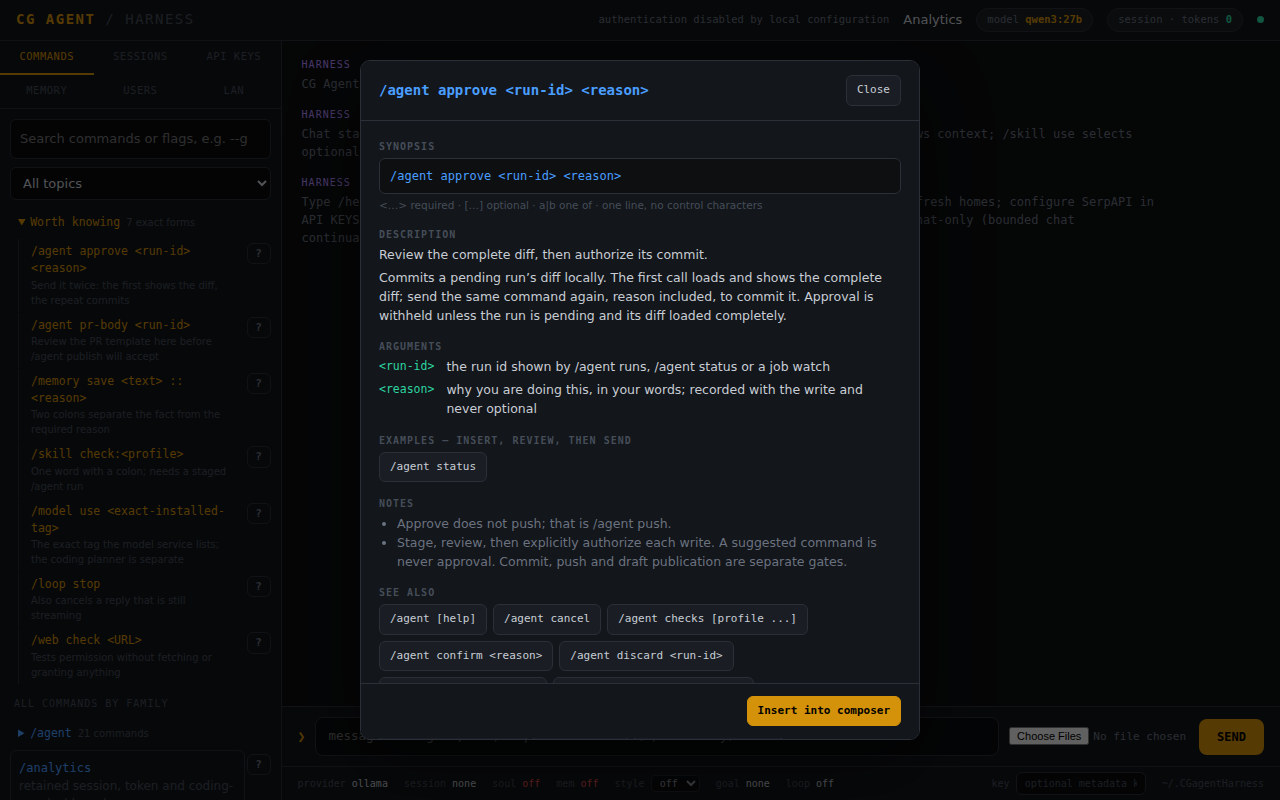
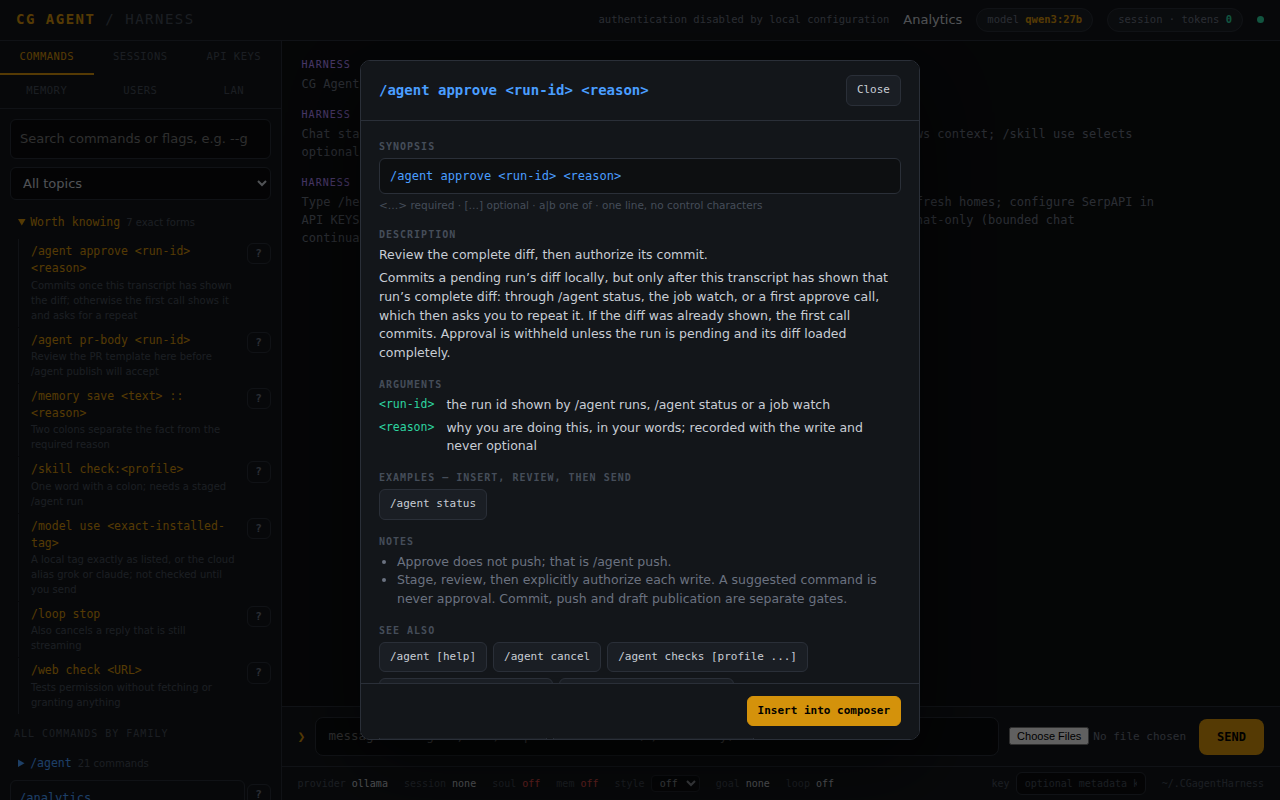
fix: correct four manual claims Codex flagged and keep check: on insert
- /agent approve: a diff already shown by /agent status or the job watch
  arms approval, so the first call commits; say so instead of promising a
  second call is always needed.
- /model use: a local tag or the cloud alias grok or claude; the selection
  is saved without an installation check.
- /api: SERPAPI_API_KEY applies at once; other saved keys load on restart.
- Inserting /skill check:<profile> keeps "check:" (commandInsert honours a
  per-command insert form); the acceptance covers it from the manual and
  the catalog row.

Claude-Session: https://claude.ai/code/session_0119aT5gSbyCH1sfoW6J6Xay

diff --git a/assets/static/harness.html b/assets/static/harness.html
@@ -1706,7 +1706,7 @@ const FLAG_MEANINGS = {
    that override ARG_MEANINGS. examples: inserted, never executed. */
 const COMMAND_MAN = {
   '/agent [help]': {detail:'Lists every /agent command. The coding workflow is: stage a request, refine it, confirm it with a reason, review the result, approve the commit, then push and publish, each a separate step.', notes:['Nothing runs until /agent confirm. A command printed by the model is never approval.']},
-  '/agent approve <run-id> <reason>': {detail:'Commits a pending run’s diff locally. The first call loads and shows the complete diff; send the same command again, reason included, to commit it. Approval is withheld unless the run is pending and its diff loaded completely.', notes:['Approve does not push; that is /agent push.'], examples:['/agent status ']},
+  '/agent approve <run-id> <reason>': {detail:'Commits a pending run’s diff locally, but only after this transcript has shown that run’s complete diff: through /agent status, the job watch, or a first approve call, which then asks you to repeat it. If the diff was already shown, the first call commits. Approval is withheld unless the run is pending and its diff loaded completely.', notes:['Approve does not push; that is /agent push.'], examples:['/agent status ']},
   '/agent cancel': {detail:'Discards the staged request: branch, instruction, plan, declared reads and checks. Jobs already submitted keep running; /agent stop is for those.'},
   '/agent checks [profile ...]': {detail:'Alone, lists the fixed check profiles and what each runs. With names, selects those profiles for the staged request; separate several with spaces or commas. Unknown names are refused and nothing changes.', examples:['/agent checks']},
   '/agent confirm <reason>': {detail:'Submits the staged request as a detached job, with your reason. If the server refuses it, the request stays staged for correction. The console then watches the job in the transcript.', notes:['confirm is explicit here and never defaulted.']},
@@ -1727,7 +1727,7 @@ const COMMAND_MAN = {
   '/agent status <run-id>': {detail:'Shows one run and its complete diff.'},
   '/agent stop [job-id]': {detail:'Asks the server to cancel a job. Without an id, it uses the job this page last watched. Work the job already spawned may survive; inspect the run before further writes.'},
   '/analytics': {detail:'Opens the Analytics dialog: tokens and cost, sessions and coding runs, filterable and paged.'},
-  '/api [set <KEY> <value>|clear <KEY>]': {detail:'Alone, shows the credential store and every key masked. set saves a value and clear removes it; saved values load after a restart, and an explicit environment variable always wins.', notes:['A secret typed here lands in chat history. The API Keys pane’s password fields do not.']},
+  '/api [set <KEY> <value>|clear <KEY>]': {detail:'Alone, shows the credential store and every key masked. set saves a value and clear removes it. Saved values load after a restart, except SERPAPI_API_KEY, which applies at once; an explicit environment variable always wins.', notes:['A secret typed here lands in chat history. The API Keys pane’s password fields do not.']},
   '/clear': {detail:'Empties the visible transcript, drops staged reviews and stops chat continuation. Saved sessions are untouched.'},
   '/connectors': {detail:'Lists registered connectors with kind and auth. Registration is not readiness.'},
   '/github': {detail:'Runs the read-only GitHub status check in a subprocess and prints its output.'},
@@ -1750,7 +1750,7 @@ const COMMAND_MAN = {
   '/memory retrieve <query>': {detail:'Sends a chat turn with fact retrieval forced on, for that prompt only.'},
   '/memory save <text> :: <reason>': {detail:'Writes a private fact immediately. The two colons separate the fact from the required reason. Whether it is retrieved later is controlled separately.'},
   '/memory search <query>': {detail:'Lists matching fact candidates with scores. Nothing is injected into chat.'},
-  '/model [use <name>]': {detail:'Alone, shows the chat model, provider and endpoint. use selects a chat model by its exact installed tag and reports the planner model, which is configured separately and unchanged.', args:{name:'a model tag exactly as the model service lists it'}, examples:['/model use ']},
+  '/model [use <name>]': {detail:'Alone, shows the chat model, provider and endpoint. use selects the chat model: a local tag exactly as the model service lists it, or the configured cloud alias grok or claude. The selection is saved without checking installation; a missing local tag fails on the next message. The planner model is configured separately and unchanged.', args:{name:'a local tag exactly as the model service lists it, or grok or claude for the configured cloud provider'}, examples:['/model use ']},
   '/net status|devices': {detail:'status shows scope and gate state and loads no collector; devices lists passively seen neighbors. Both open the LAN pane. Anything else is refused: this console runs no scans or device control.'},
   '/prompt': {detail:'Previews the next chat system prompt: persona, style, pinned notes, selected facts and web context. Shown only to you; nothing is sent to the model.'},
   '/registry': {detail:'Lists skills, tools and connectors together.'},
@@ -1760,7 +1760,7 @@ const COMMAND_MAN = {
   '/session rename <title>': {detail:'Renames the current session.'},
   '/session use <id>': {detail:'Restores a saved session and replays its messages. Ids come from /session list or the Sessions pane.'},
   '/skill [status]|use <id...>|clear': {detail:'Shows, replaces or clears the prompt skills selected for this session. Selected skills are prompt context, not tools. Creates a session if none is open.'},
-  '/skill check:<profile>': {detail:'Selects one fixed check profile for an already staged coding request. Written as one word with a colon. Nothing executes; /agent confirm <reason> still authorizes the run.'},
+  '/skill check:<profile>': {insert:'/skill check:', detail:'Selects one fixed check profile for an already staged coding request. Written as one word with a colon. Nothing executes; /agent confirm <reason> still authorizes the run.'},
   '/skills [all|help|<name>]': {detail:'Draws the registered runtime skills. all includes the unwired catalog; a name draws one skill; help lists these forms. Registration is not readiness.'},
   '/soul [on|off|status]': {detail:'Shows persona status, or turns soul.md on or off in the system prompt. soul.md itself is never changed by this.'},
   '/soul apply <id> <reason>': {detail:'Applies the persona proposal you reviewed with /soul review <id>. The id must match the reviewed proposal and a reason is required.'},
@@ -1789,15 +1789,18 @@ const COMMAND_MAN = {
 /* Exact forms that are easy to get wrong. insert is what the composer gets;
    key names the catalog row whose manual the ? opens. */
 const WORTH_KNOWING = [
-  {label:'/agent approve <run-id> <reason>', insert:'/agent approve ', hint:'Send it twice: the first shows the diff, the repeat commits', key:'/agent approve <run-id> <reason>'},
+  {label:'/agent approve <run-id> <reason>', insert:'/agent approve ', hint:'Commits once this transcript has shown the diff; otherwise the first call shows it and asks for a repeat', key:'/agent approve <run-id> <reason>'},
   {label:'/agent pr-body <run-id>', insert:'/agent pr-body ', hint:'Review the PR template here before /agent publish will accept', key:'/agent pr-body <run-id>'},
   {label:'/memory save <text> :: <reason>', insert:'/memory save ', hint:'Two colons separate the fact from the required reason', key:'/memory save <text> :: <reason>'},
   {label:'/skill check:<profile>', insert:'/skill check:', hint:'One word with a colon; needs a staged /agent run', key:'/skill check:<profile>'},
-  {label:'/model use <exact-installed-tag>', insert:'/model use ', hint:'The exact tag the model service lists; the coding planner is separate', key:'/model [use <name>]'},
+  {label:'/model use <exact-installed-tag>', insert:'/model use ', hint:'A local tag exactly as listed, or the cloud alias grok or claude; not checked until you send', key:'/model [use <name>]'},
   {label:'/loop stop', insert:'/loop stop', hint:'Also cancels a reply that is still streaming', key:'/loop [n]|auto|stop'},
   {label:'/web check <URL>', insert:'/web check ', hint:'Tests permission without fetching or granting anything', key:'/web check <URL> [URL ...] [--group name]'},
 ];
 function commandRoot(syntax) { return '/' + syntax.slice(1).split(' ')[0]; }
+/* What a click inserts: the fixed prefix, unless the manual names a form the
+   prefix rule cannot keep (check:<profile> is one word with a colon). */
+function commandInsert(syntax) { return (COMMAND_MAN[syntax] && COMMAND_MAN[syntax].insert) || commandPrefix(syntax); }
 function commandManual(syntax) {
   const row = COMMANDS.find(([c]) => c === syntax) || [syntax, ''];
   const man = COMMAND_MAN[syntax] || {};
@@ -1859,7 +1862,7 @@ function openCommandHelp(syntax) {
     if (m.topic) { const b = document.createElement('button'); b.type = 'button'; b.textContent = '/help ' + m.topicKey + ' — ' + m.topic.title; b.title = 'Insert into the composer; does not execute'; b.addEventListener('click', () => insertAndClose('/help ' + m.topicKey)); list.appendChild(b); }
     body.appendChild(list);
   }
-  $('commandHelpInsert').onclick = () => insertAndClose(commandPrefix(m.syntax));
+  $('commandHelpInsert').onclick = () => insertAndClose(commandInsert(m.syntax));
   if (!dialog.open) dialog.showModal();
   body.scrollTop = 0; dialog.scrollTop = 0;
 }
@@ -1867,7 +1870,7 @@ $('commandHelpClose').addEventListener('click', () => $('commandHelpDialog').clo
 /* One catalog row: the command inserts its fixed prefix, the ? opens its manual. */
 function commandRow(c, d) {
   const row = document.createElement('div'); row.className = 'cmd-row';
-  const b = commandButton(commandPrefix(c)); b.replaceChildren();
+  const b = commandButton(commandInsert(c)); b.replaceChildren();
   const syntax = document.createElement('span'); syntax.className = 'c'; syntax.textContent = c;
   const desc = document.createElement('span'); desc.className = 'd'; desc.textContent = d; b.append(syntax, desc);
   row.append(b, helpButton(c));
